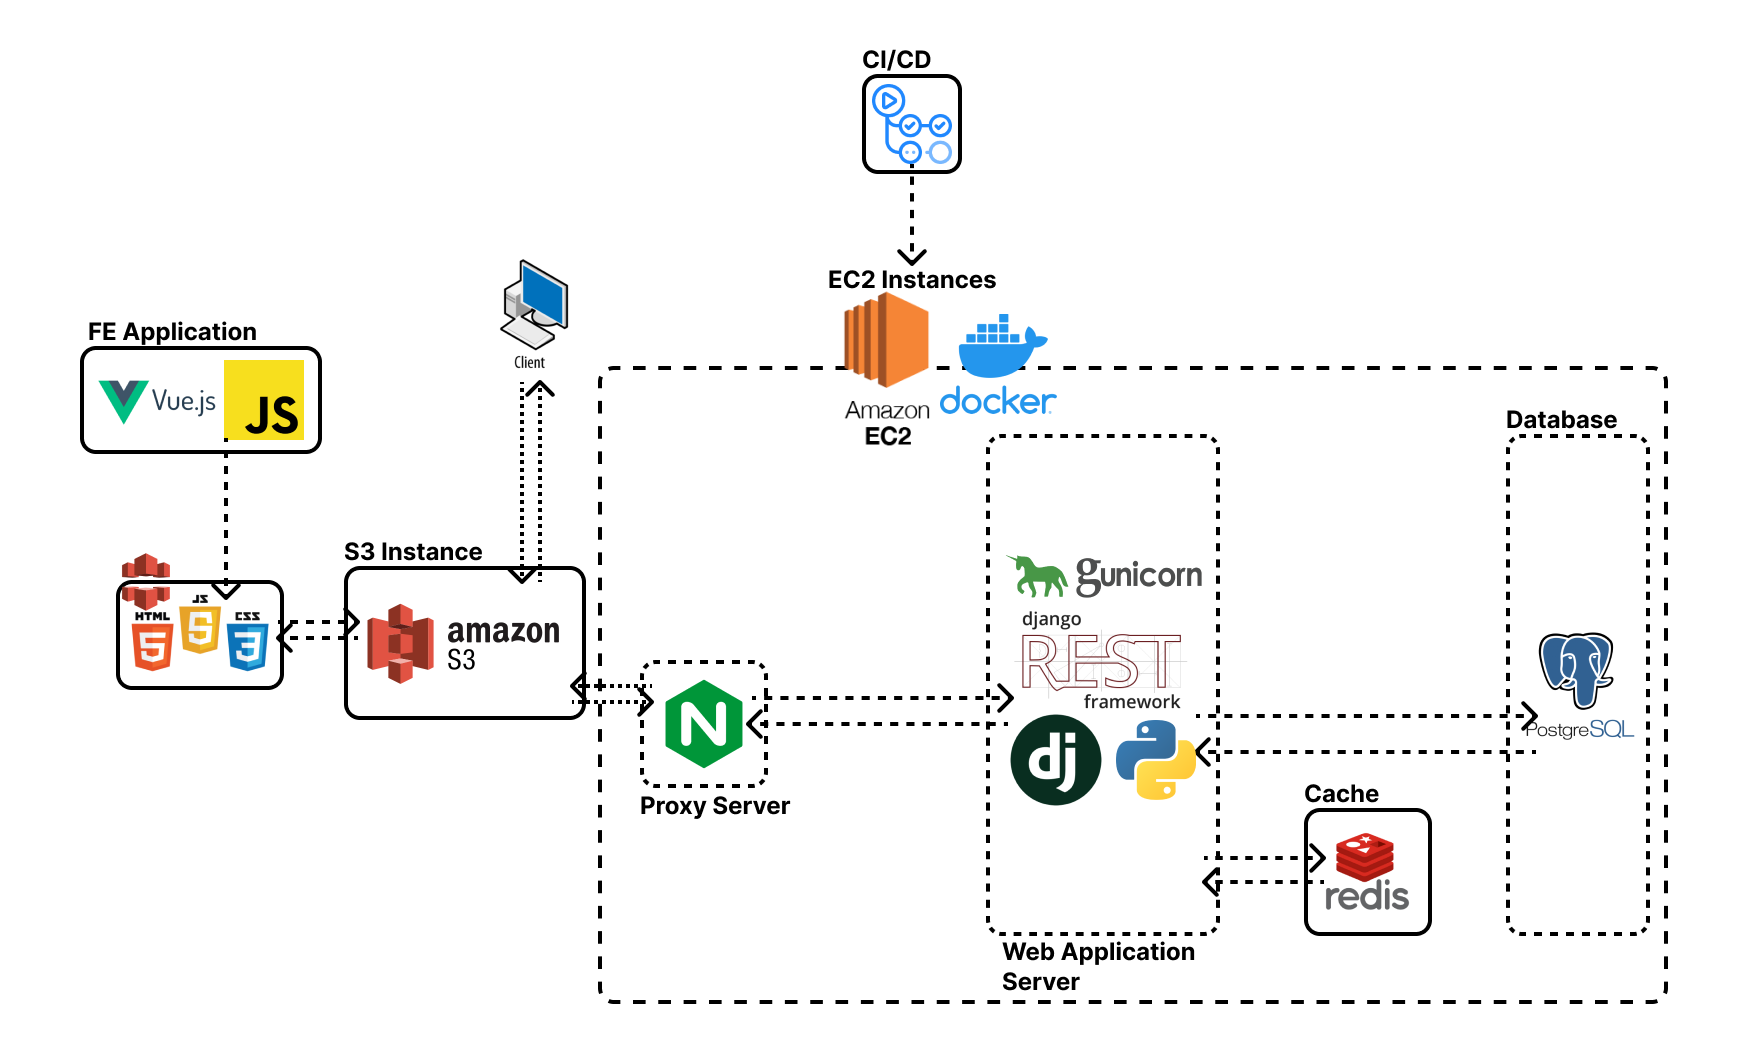
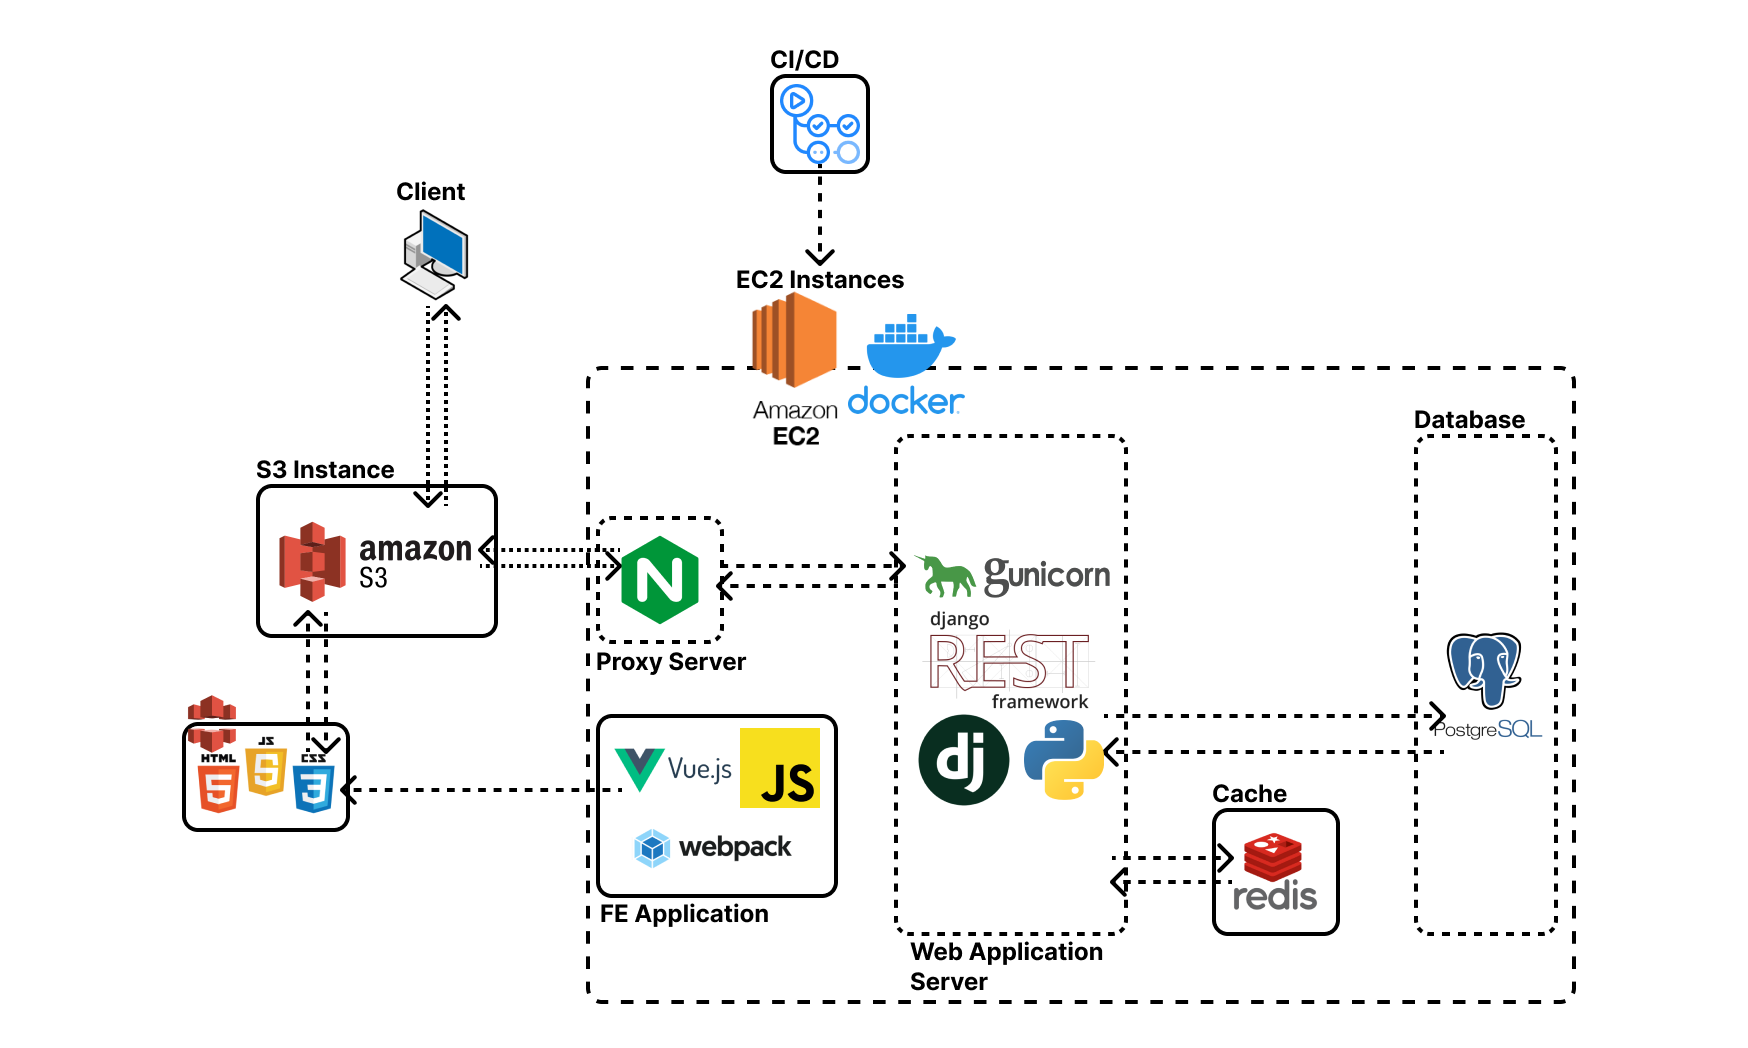
:memo: [DOCS] README 업데이트

diff --git a/README.md b/README.md
@@ -89,7 +89,7 @@ $ git push -u origin [branch_name]
 
 <br><br>
 
-## :books: 기술 스택
+## :building_construction: 기술스택/아키텍처
 
 ![](./README.assets/techstack-architecture.png)
 
